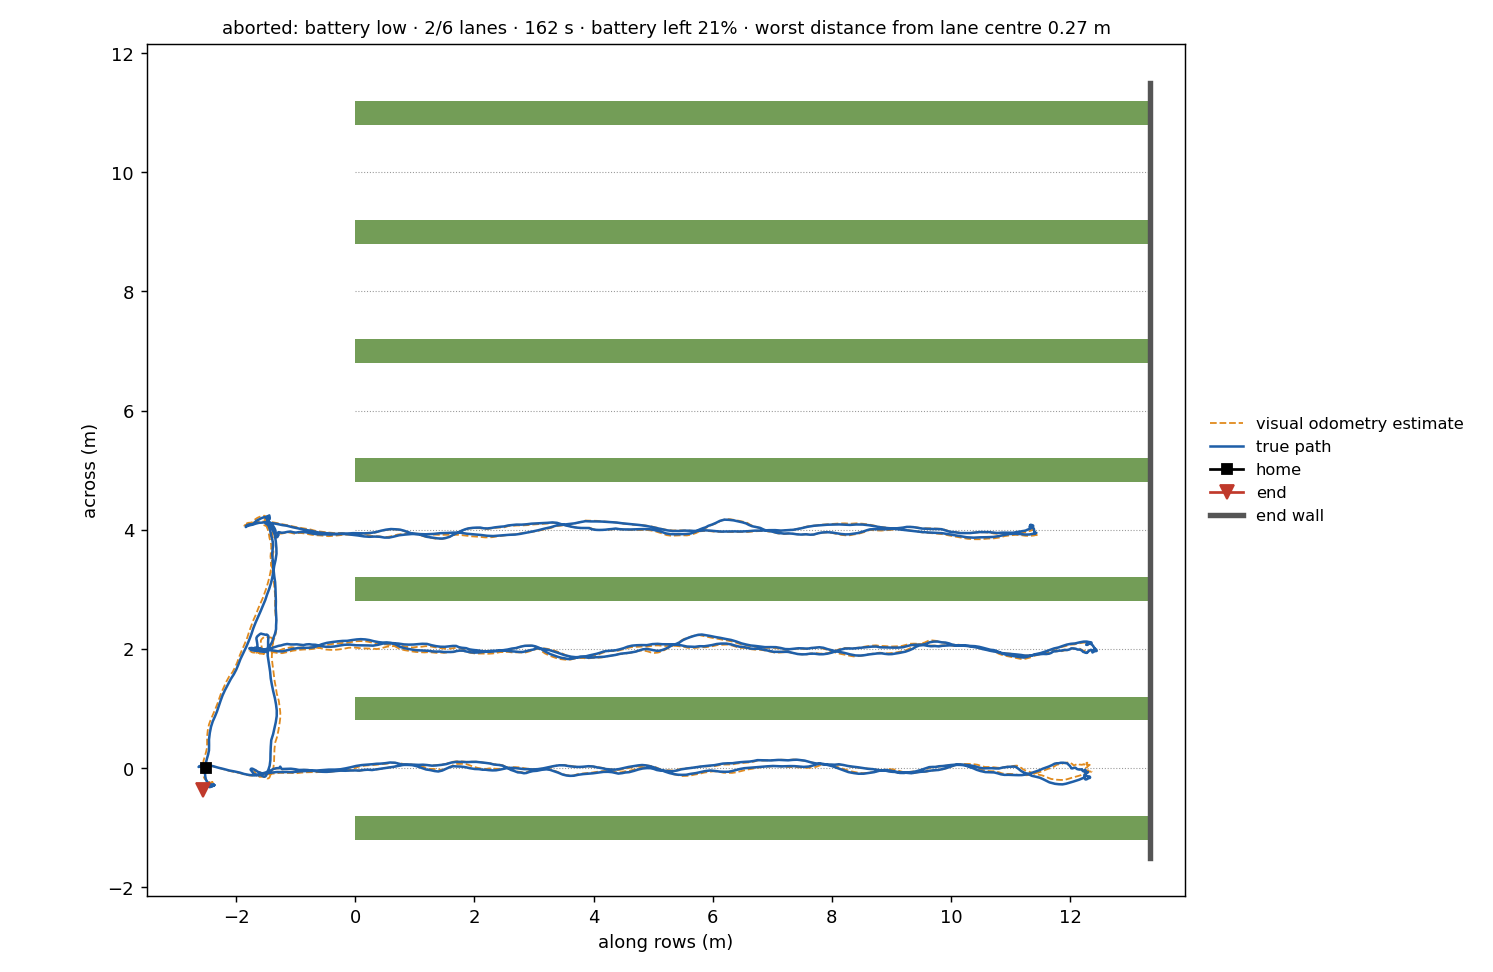
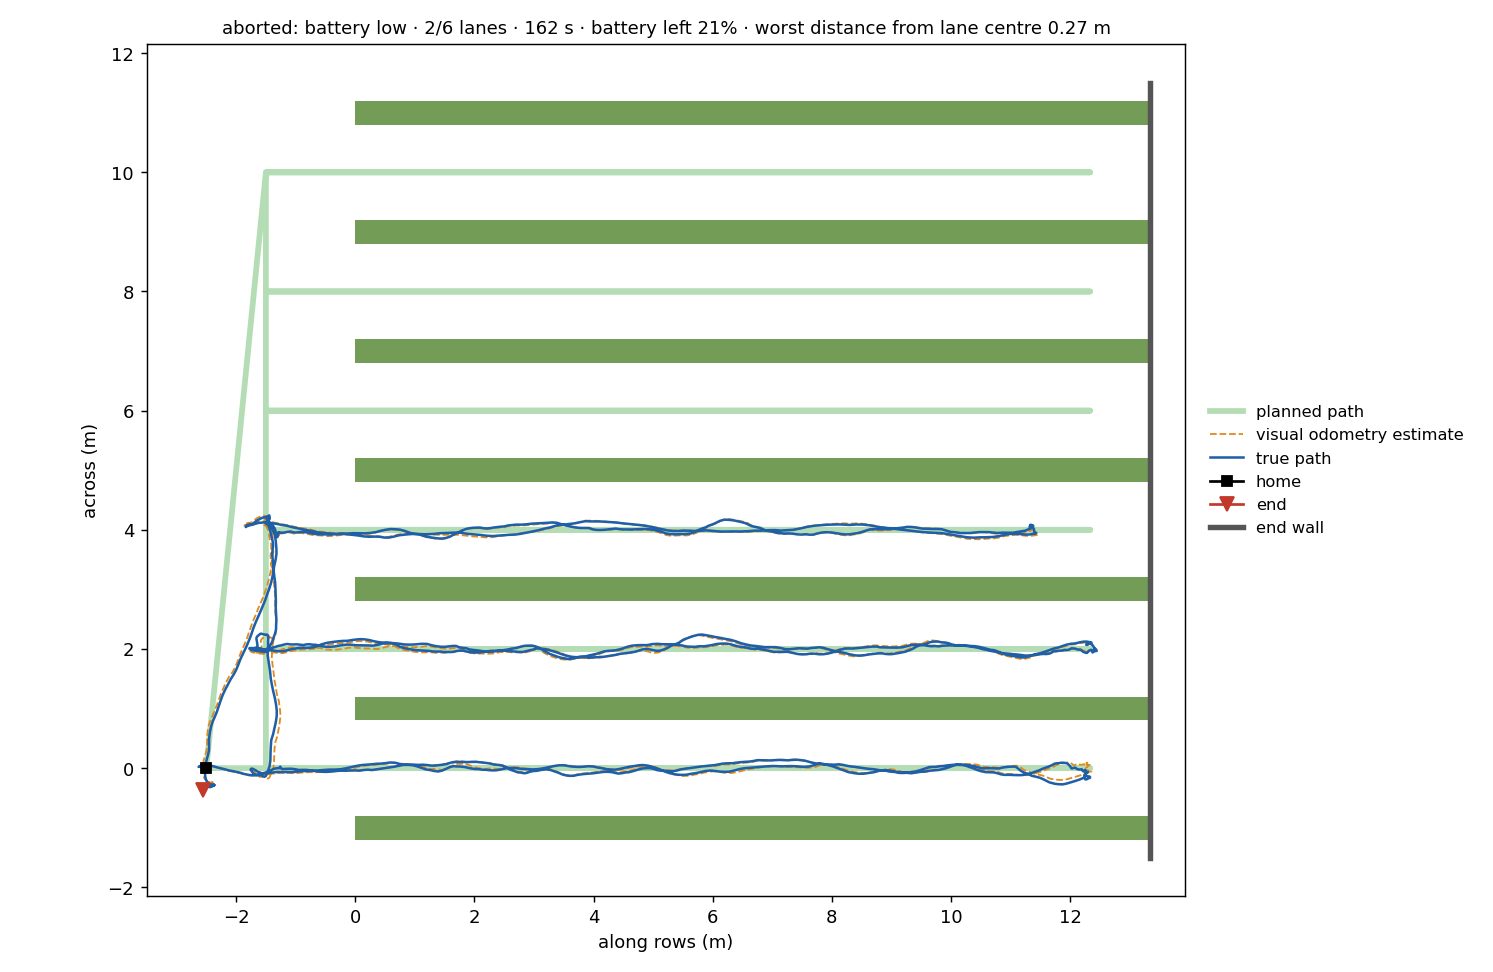
Path plots show the planned path
GreenhouseLayout.planned_route() is the path the mission tree plans (home, each lane in to the turning
point and back out, home); the plot draws it under the true and estimated paths, so a run can be judged
against what was intended. README result from the fresh-clone run (setup script on a clean checkout):
6/6 lanes, 50-104 mm RMS, 0.36 m worst, 371 s.

diff --git a/rowpilot/layout.py b/rowpilot/layout.py
@@ -77,6 +77,23 @@ class GreenhouseLayout:
         x = self.row_length + self.headland if self.lane_direction(lane) > 0 else -self.headland
         return (x, self.lane_center_y(lane))
 
+    def planned_route(self) -> list[tuple[float, float]]:
+        """The intended flight path, as the mission tree plans it: from home through every lane (in to
+        the turning point and back out for closed lanes; through to the far headland for open ones),
+        then home along the near headland."""
+        route = [self.home]
+        for i in range(self.n_lanes):
+            route.append(self.lane_entry(i))
+            if self.closed_end:
+                route += [(self.turn_x(), self.lane_center_y(i)), self.lane_entry(i)]
+            else:
+                route.append(self.lane_exit(i))
+        last_x, last_y = route[-1]
+        if last_x > 0:  # ended in the far headland: back along the last lane, never through the crop
+            route.append((-self.headland, last_y))
+        route.append(self.home)
+        return route
+
     def progress_along_lane(self, lane: int, x: float) -> float:
         """Distance travelled along the crop rows of a lane (0 at the row start, row_length at the end)."""
         return x if self.lane_direction(lane) > 0 else self.row_length - x

diff --git a/rowpilot/plot.py b/rowpilot/plot.py
@@ -1,4 +1,4 @@
-"""Top-down plot of a run: crop rows, the true flight path, and what visual odometry thought."""
+"""Top-down plot of a run: crop rows, the planned path, the true flight path, and what visual odometry thought."""
 
 from __future__ import annotations
 
@@ -22,8 +22,8 @@ def plot_run(result: RunResult, layout: GreenhouseLayout, path: str) -> None:
                 (0, c - layout.crop_width / 2), layout.row_length, layout.crop_width, color="#5b8c3a", alpha=0.85, lw=0
             )
         )
-    for i in range(layout.n_lanes):
-        ax.plot([0, layout.row_length], [layout.lane_center_y(i)] * 2, color="#999", lw=0.6, ls=":")
+    px, py = zip(*layout.planned_route(), strict=True)
+    ax.plot(px, py, color="#2ca02c", lw=3.2, alpha=0.35, solid_joinstyle="round", label="planned path", zorder=1)
     xs, ys = [t["x"] for t in result.trace], [t["y"] for t in result.trace]
     ax.plot(
         [t["est_x"] for t in result.trace],

diff --git a/tests/test_mission.py b/tests/test_mission.py
@@ -123,3 +123,14 @@ def test_open_lanes_are_still_swept_serpentine():
     assert r.outcome == "completed", r.outcome
     assert r.lanes_completed == [0, 1]
     assert max(t["x"] for t in r.trace) > lay.row_length  # turned in the far headland
+
+
+def test_planned_route_visits_every_lane_and_never_crosses_the_crop():
+    for lay in (SMALL, GreenhouseLayout(n_lanes=3, row_length=10.0, closed_end=False)):
+        route = lay.planned_route()
+        assert route[0] == route[-1] == lay.home
+        for i in range(lay.n_lanes):
+            assert any(abs(y - lay.lane_center_y(i)) < 1e-9 and x > lay.row_length / 2 for x, y in route)
+        for (x0, y0), (x1, y1) in zip(route, route[1:], strict=False):
+            if abs(y1 - y0) > 1e-9:  # every move across the rows happens in a headland
+                assert (x0 < 0 and x1 < 0) or (x0 > lay.row_length and x1 > lay.row_length)

diff --git a/README.md b/README.md
@@ -101,7 +101,7 @@ Gazebo D435i → OpenVINS (no ROS) → MAVLink ODOMETRY → ArduPilot EKF3 (Exte
 VEHICLE=iris ./scripts/run_ardupilot_sim.sh ~/ardupilot ~/ardupilot_gazebo   # the ArduPilot Iris instead
 ```
 
-**Result, FireFly 2** (6 dead-end lanes, 13.3 m rows, OpenVINS → EKF3, scored against Gazebo ground truth): every lane flown in to 1 m short of the end wall, turned round (~6 s) and flown back out, home through the headland, landed by ArduCopter's LAND mode. **37–93 mm RMS from the lane centre, 0.36 m worst case**, closest approach to the end wall 0.8 m, 378 s. OpenVINS + EKF3 position error: 0.15 m mean; its drift over the ~150 m flight puts the touchdown 0.9 m from the take-off spot.
+**Result, FireFly 2** (6 dead-end lanes, 13.3 m rows, OpenVINS → EKF3, scored against Gazebo ground truth): every lane flown in to 1 m short of the end wall, turned round (~6 s) and flown back out, home through the headland, landed by ArduCopter's LAND mode. **50–104 mm RMS from the lane centre, 0.36 m worst case**, closest approach to the end wall 0.58 m (the turning point is 1.0 m before it; the drone overshoots by up to ~0.4 m while braking), 371 s, flown from a fresh clone set up with `scripts/setup_ardupilot_sim.sh` (two earlier runs: 37–117 mm RMS). The visual odometry drifts by roughly 0.6 % of the distance flown, so the touchdown is about 0.9 m from the take-off spot. The plot shows the planned path (green), the true path (blue) and what OpenVINS + EKF3 believed (orange).
 
 ![FireFly 2 in ArduPilot SITL + OpenVINS in Gazebo: six dead-end lanes, each flown in and back out, then home and landed](docs/firefly-gazebo-run.png)
 

diff --git a/docs/setup.md b/docs/setup.md
@@ -104,8 +104,9 @@ Options (environment variables before the command):
 ### 3. Check it worked
 
 A good run ends with `"outcome": "completed"`, `"lanes_completed": [0, 1, 2, 3, 4, 5]` and a lane-centre
-error (`lane_rms_error_m`) under about 0.15 m. Two runs on the tested laptop: 37–117 mm RMS, worst
-0.36–0.52 m, 378–393 s.
+error (`lane_rms_error_m`) under about 0.15 m. Three runs on the tested laptop (one from a fresh clone
+set up with this guide): 37–117 mm RMS, worst 0.36–0.52 m, 371–393 s. In `path.png` the green line is
+the planned path, blue where the drone really flew, dashed orange where it believed it was.
 
 ## Troubleshooting
 
